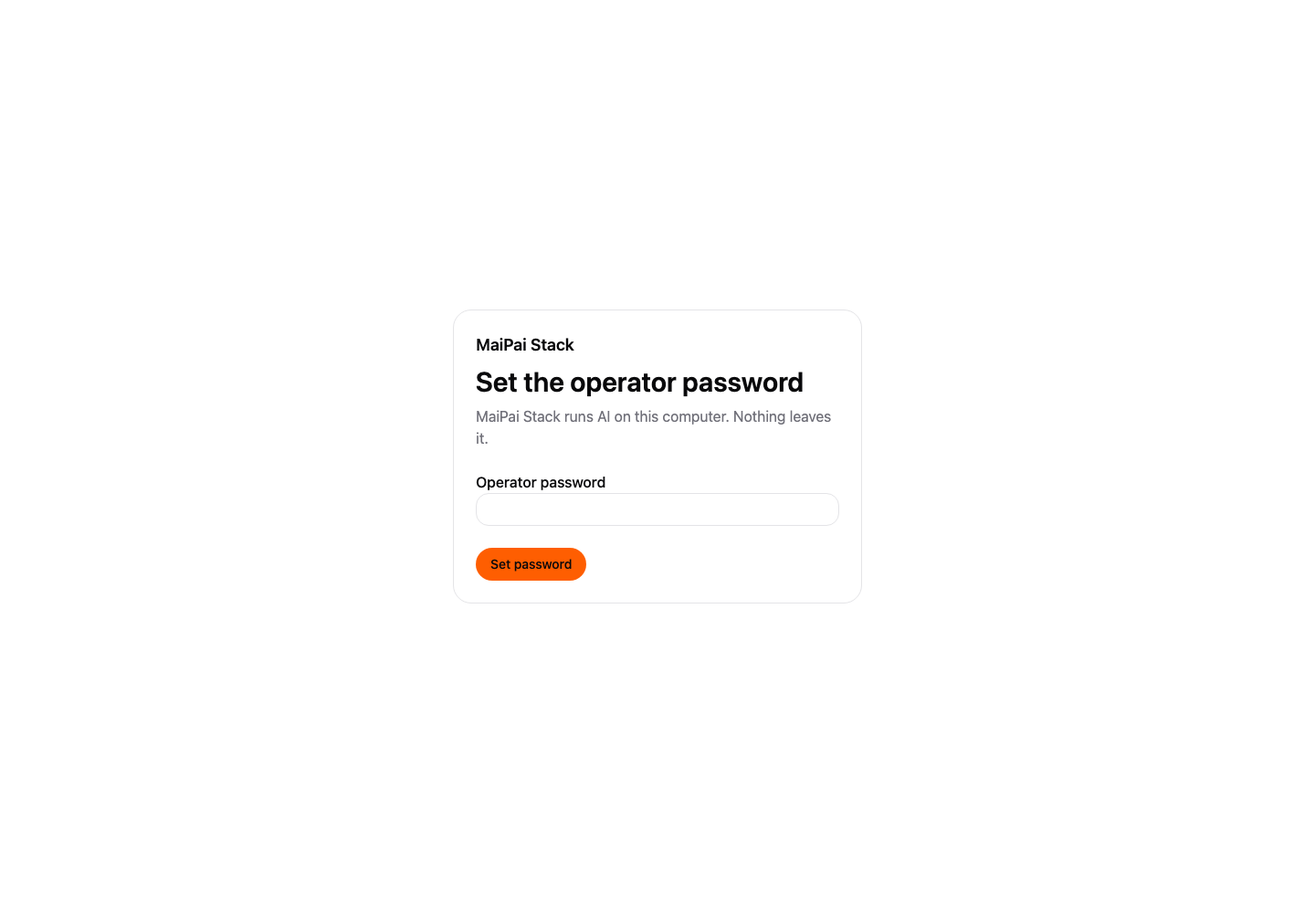
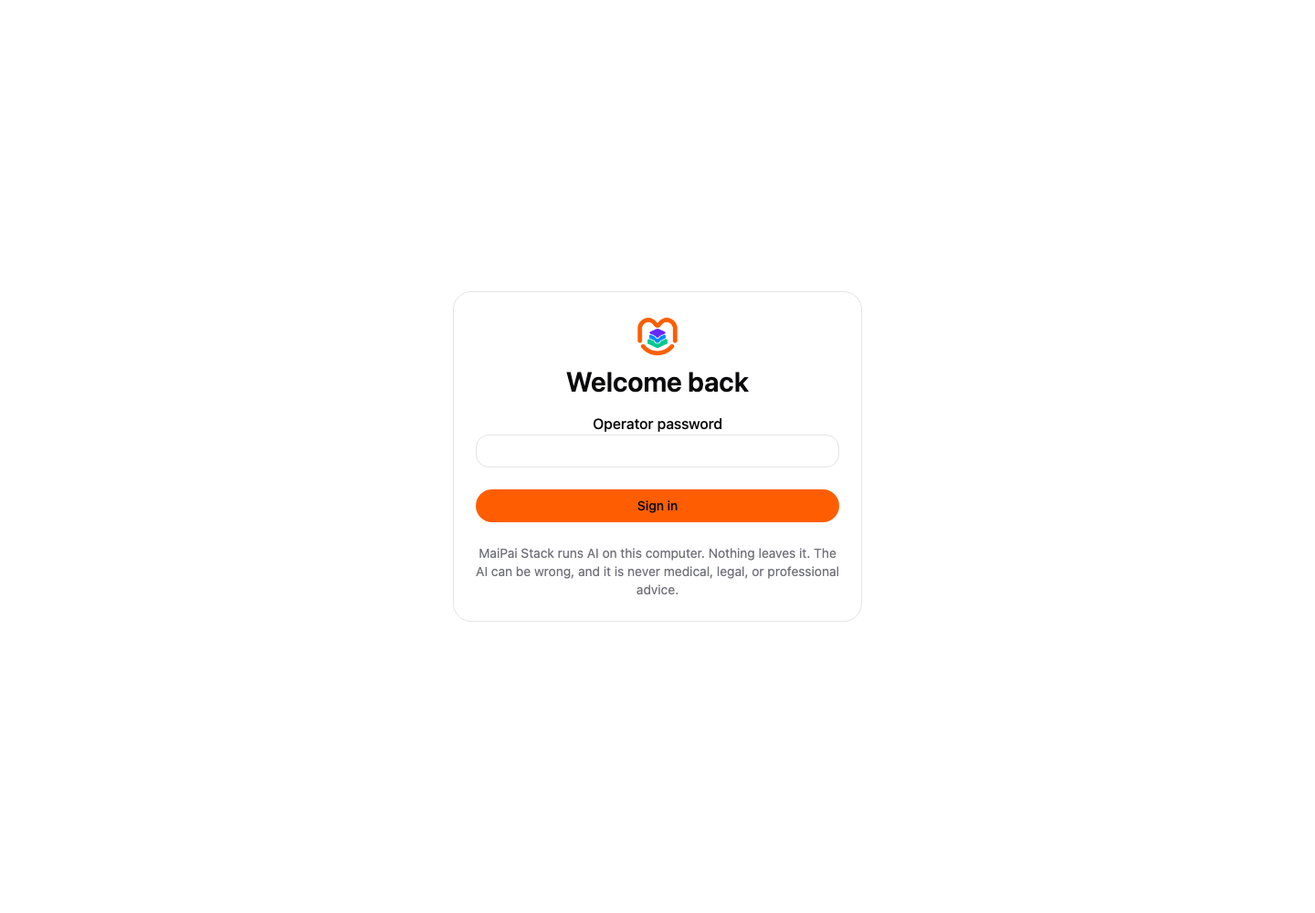
Console: the Setup and Login cards carry the brand; Clients has its route

Changed region(s): [[0.3438, 0.527, 0.6562, 0.651], [0.3438, 0.341, 0.625, 0.496]]

diff --git a/frontend/src/pages/DashboardShell.tsx b/frontend/src/pages/DashboardShell.tsx
@@ -38,7 +38,7 @@ import { answerIntent, type IntentFacts } from "@/lib/intents";
 const Copy = getIcon("Copy"); const ExternalLink = getIcon("ExternalLink"); const Gauge = getIcon("Gauge"); const Search = getIcon("Search"); const Sparkles = getIcon("Sparkles"); const RefreshCw = getIcon("RefreshCw"); const UploadCloud = getIcon("UploadCloud"); const SlidersHorizontal = getIcon("SlidersHorizontal");
 
 const sections = ["Overview", "Engines", "Models", "Library", "Help", "Clients", "Tester", "Monitoring", "Settings", "Logs", "Alerts"];
-const sectionPaths: Record<string, string> = { Overview: "/", Engines: "/engines", Models: "/models", Library: "/library", Help: "/help", Clients: "/access", Tester: "/try", Monitoring: "/monitoring", Settings: "/settings", Logs: "/logs", Alerts: "/alerts" };
+const sectionPaths: Record<string, string> = { Overview: "/", Engines: "/engines", Models: "/models", Library: "/library", Help: "/help", Clients: "/clients", Tester: "/try", Monitoring: "/monitoring", Settings: "/settings", Logs: "/logs", Alerts: "/alerts" };
 
 export type SectionFrameComponent = ({ title, description, children }: { title: string; description: string; children: ReactNode }) => ReactNode;
 
@@ -61,7 +61,7 @@ function PhoneDetail({ kind, endpoint, id }: { kind: Extract<ThingKind, "model" 
 function PhoneShell({ children, locationPath, onNavigate, health, helperFacts }: { children: ReactNode; locationPath: string; onNavigate: (path: string) => void; health: string; helperFacts: IntentFacts }) {
   const action: "Add" | "Search" = ["/models", "/engines"].includes(locationPath) ? "Add" : "Search";
   const title = locationPath.startsWith("/models") ? "Models" : locationPath.startsWith("/engines") ? "Engines" : locationPath.startsWith("/try") ? "Ask" : locationPath.startsWith("/alerts") ? "Alerts" : locationPath.startsWith("/settings") ? "Settings" : locationPath === "/" ? "Overview" : "Things";
-  return <div data-phone-shell className="min-h-svh bg-background pb-16"><PhoneHeader computerName="This computer" health={health} action={action} onAction={() => undefined} /><div className="hidden" aria-hidden="true"><button type="button" aria-label="Ask" /><button type="button" data-notifications-trigger /><button type="button" data-profile-trigger /></div><main className="mx-auto w-full max-w-xl"><h1 className="px-4 pt-4 text-2xl font-semibold">{title}</h1>{["/models", "/engines"].includes(locationPath) && <div className="mx-4 mt-3 grid grid-cols-2 rounded-lg border p-1"><button type="button" className={`min-h-11 rounded-md text-sm ${locationPath === "/models" ? "bg-muted font-medium" : ""}`} onClick={() => onNavigate("/models")}>Models</button><button type="button" className={`min-h-11 rounded-md text-sm ${locationPath === "/engines" ? "bg-muted font-medium" : ""}`} onClick={() => onNavigate("/engines")}>Engines</button></div>}{locationPath.startsWith("/settings") && <nav aria-label="Settings navigation" className="mx-4 mt-3 divide-y rounded-xl border"><a className="block min-h-11 px-4 py-3" href="/access">Clients</a><a className="block min-h-11 px-4 py-3" href="/monitoring">Monitoring</a><a className="block min-h-11 px-4 py-3" href="/logs">Logs</a></nav>}<div className="px-4 pb-4">{children}{locationPath.startsWith("/try") && <HelperPanel question="How is chat doing?" facts={helperFacts} onClose={() => onNavigate("/")} />}</div></main><TabBar activePath={locationPath} onNavigate={onNavigate} /></div>;
+  return <div data-phone-shell className="min-h-svh bg-background pb-16"><PhoneHeader computerName="This computer" health={health} action={action} onAction={() => undefined} /><div className="hidden" aria-hidden="true"><button type="button" aria-label="Ask" /><button type="button" data-notifications-trigger /><button type="button" data-profile-trigger /></div><main className="mx-auto w-full max-w-xl"><h1 className="px-4 pt-4 text-2xl font-semibold">{title}</h1>{["/models", "/engines"].includes(locationPath) && <div className="mx-4 mt-3 grid grid-cols-2 rounded-lg border p-1"><button type="button" className={`min-h-11 rounded-md text-sm ${locationPath === "/models" ? "bg-muted font-medium" : ""}`} onClick={() => onNavigate("/models")}>Models</button><button type="button" className={`min-h-11 rounded-md text-sm ${locationPath === "/engines" ? "bg-muted font-medium" : ""}`} onClick={() => onNavigate("/engines")}>Engines</button></div>}{locationPath.startsWith("/settings") && <nav aria-label="Settings navigation" className="mx-4 mt-3 divide-y rounded-xl border"><a className="block min-h-11 px-4 py-3" href="/clients">Clients</a><a className="block min-h-11 px-4 py-3" href="/monitoring">Monitoring</a><a className="block min-h-11 px-4 py-3" href="/logs">Logs</a></nav>}<div className="px-4 pb-4">{children}{locationPath.startsWith("/try") && <HelperPanel question="How is chat doing?" facts={helperFacts} onClose={() => onNavigate("/")} />}</div></main><TabBar activePath={locationPath} onNavigate={onNavigate} /></div>;
 }
 
 function PhoneModelRoute() { const { id = "" } = useParams(); return <PhoneDetail kind="model" endpoint="/stack/v1/models" id={id} />; }
@@ -141,7 +141,7 @@ export function DashboardShell() {
     return () => remove();
   }, [currentRunState, navigate, refetchRunState]);
   useEffect(() => { if (location.pathname !== "/abilities") sessionStorage.setItem("maipai-stack:last-route", location.pathname); }, [location.pathname]);
-  const routes = <Routes><Route path="/" element={<BoardPageProxy />} /><Route path="/abilities" element={<AbilitiesProxy />} /><Route path="/models/:id" element={<PhoneModelRoute />} /><Route path="/engines/:id" element={<PhoneEngineRoute />} /><Route path="/models" element={<ModelsPage Frame={SectionFrame} />} /><Route path="/engines" element={<EnginesPage Frame={SectionFrame} />} /><Route path="/monitoring" element={<MonitoringPage />} /><Route path="/library" element={<LibraryPage Frame={SectionFrame} />} /><Route path="/help/:page?" element={<HelpPage Frame={SectionFrame} />} /><Route path="/alerts" element={<AlertsPage Frame={SectionFrame} />} /><Route path="/logs" element={<LogsPage />} /><Route path="/access" element={<AccessPage Frame={SectionFrame} />} /><Route path="/try" element={<TryItPage />} /><Route path="/updates" element={<Navigate to="/settings/updates" replace />} /><Route path="/backups" element={<Navigate to="/settings/backups" replace />} /><Route path="/settings/*" element={<SettingsPage Frame={SectionFrame} />} /><Route path="*" element={<BoardPageProxy />} /></Routes>;
+  const routes = <Routes><Route path="/" element={<BoardPageProxy />} /><Route path="/abilities" element={<AbilitiesProxy />} /><Route path="/models/:id" element={<PhoneModelRoute />} /><Route path="/engines/:id" element={<PhoneEngineRoute />} /><Route path="/models" element={<ModelsPage Frame={SectionFrame} />} /><Route path="/engines" element={<EnginesPage Frame={SectionFrame} />} /><Route path="/monitoring" element={<MonitoringPage />} /><Route path="/library" element={<LibraryPage Frame={SectionFrame} />} /><Route path="/help/:page?" element={<HelpPage Frame={SectionFrame} />} /><Route path="/alerts" element={<AlertsPage Frame={SectionFrame} />} /><Route path="/logs" element={<LogsPage />} /><Route path="/clients" element={<AccessPage Frame={SectionFrame} />} /><Route path="/access" element={<Navigate to="/clients" replace />} /><Route path="/try" element={<TryItPage />} /><Route path="/updates" element={<Navigate to="/settings/updates" replace />} /><Route path="/backups" element={<Navigate to="/settings/backups" replace />} /><Route path="/settings/*" element={<SettingsPage Frame={SectionFrame} />} /><Route path="*" element={<BoardPageProxy />} /></Routes>;
   if (phone) return <PhoneModeContext.Provider value={true}><PhoneShell locationPath={location.pathname} onNavigate={navigate} health={health.data?.health?.[0]?.text ?? "This computer is healthy."} helperFacts={helperFacts}>{routes}</PhoneShell></PhoneModeContext.Provider>;
   return <SidebarProvider><AppSidebar repairs={repairRows} roles={roleRows} health={health.data?.health ?? []} engineCount={engineCount} updateCount={updateCount} alertSeverity={alertSeverity} engineTooltip={engineTooltip} updateTooltip={updateTooltip} alertTooltip={alertTooltip} hardware={hardware.data?.hardware} budget={budget.data} runState={runState.data?.state} /><SidebarInset className="h-svh overflow-hidden bg-[var(--surface-page)]"><SiteHeader title={title} onSearch={() => setPaletteOpen(true)} runState={runState.data?.state ?? "running"} onRunStateChange={() => void runState.refetch()} /><div className="flex-1 overflow-y-auto">{routes}</div></SidebarInset><CommandPalette open={paletteOpen} onOpenChange={setPaletteOpen} /></SidebarProvider>;
 }

diff --git a/scripts/screenshot.ts b/scripts/screenshot.ts
@@ -11,10 +11,10 @@ const showroom = process.argv.includes("--showroom");
 const signedInPages = new WeakSet<import("playwright").Page>();
 async function freePort(): Promise<number> { return new Promise((resolve, reject) => { const server = createServer(); server.once("error", reject); server.listen(0, "127.0.0.1", () => { const address = server.address(); const port = typeof address === "object" && address ? address.port : 0; server.close((error) => error ? reject(error) : resolve(port)); }); }); }
 async function waitForHealth(url: string): Promise<void> { const deadline = Date.now() + 15_000; while (Date.now() < deadline) { try { if ((await fetch(url + "/healthz")).ok) return; } catch { /* starting */ } await new Promise((resolve) => setTimeout(resolve, 100)); } throw new Error("The Stack did not become healthy."); }
-async function ensureSignedIn(page: import("playwright").Page, url: string): Promise<void> { if (signedInPages.has(page)) return; await page.goto(url, { waitUntil: "networkidle" }); if (await page.getByRole("button", { name: "Set password" }).count()) { await page.screenshot({ path: join(SCREEN_DIR, "setup-desktop.png"), fullPage: true }); await page.locator("#login-password").fill("showroom password"); await page.getByRole("button", { name: "Set password" }).click(); await page.locator('[data-sidebar="sidebar"]').waitFor(); await page.evaluate(async () => { await fetch("/stack/v1/operator/logout", { method: "POST" }); }); await page.goto(url, { waitUntil: "networkidle" }); await page.getByRole("heading", { name: "Welcome back" }).waitFor(); await page.screenshot({ path: join(SCREEN_DIR, "login-desktop.png"), fullPage: true }); } await page.locator("#login-password").fill("showroom password"); await page.getByRole("button", { name: "Sign in" }).click(); await page.locator("main").first().waitFor(); signedInPages.add(page); }
+async function ensureSignedIn(page: import("playwright").Page, url: string): Promise<void> { if (signedInPages.has(page)) return; await page.goto(url, { waitUntil: "networkidle" }); if (await page.getByRole("button", { name: "Set password" }).count()) { await page.screenshot({ path: join(SCREEN_DIR, "setup-desktop.png"), fullPage: true }); await page.locator("#login-password").fill("showroom password"); await page.getByRole("button", { name: "Set password" }).click(); await page.locator('[data-sidebar="sidebar"]').waitFor(); await page.evaluate(async () => { await fetch("/stack/v1/operator/logout", { method: "POST" }); }); await page.goto(url, { waitUntil: "networkidle" }); await page.locator("#login-password").waitFor(); await page.screenshot({ path: join(SCREEN_DIR, "login-desktop.png"), fullPage: true }); } await page.locator("#login-password").fill("showroom password"); await page.getByRole("button", { name: "Sign in" }).click(); await page.locator("main").first().waitFor(); signedInPages.add(page); }
 async function captureTry(page: import("playwright").Page, url: string, path: string): Promise<void> { await ensureSignedIn(page, url); await page.goto(url, { waitUntil: "networkidle" }); await page.getByPlaceholder("Ask your local AI…").waitFor(); await page.getByRole("tab", { name: "Chat" }).waitFor(); await page.getByRole("textbox", { name: "Message" }).fill("Say hello in one sentence"); await page.getByRole("button", { name: "Send" }).click(); await page.getByText("Scripted Stack").waitFor(); await page.screenshot({ path, fullPage: true }); }
 async function capturePhoneFirstViews(page: import("playwright").Page, url: string): Promise<void> { await page.route("**/stack/v1/operator", async (request) => request.fulfill({ status: 200, contentType: "application/json", body: JSON.stringify({ state: "setupRequired", required: true, loopback: true }) })); await page.goto(`${url}/login`, { waitUntil: "networkidle" }); await page.screenshot({ path: join(SCREEN_DIR, "setup-phone.png"), fullPage: true }); await page.unroute("**/stack/v1/operator"); await page.route("**/stack/v1/operator", async (request) => request.fulfill({ status: 200, contentType: "application/json", body: JSON.stringify({ state: "signedOut", required: true, loopback: false }) })); await page.goto(`${url}/login`, { waitUntil: "networkidle" }); await page.screenshot({ path: join(SCREEN_DIR, "login-phone.png"), fullPage: true }); await page.unroute("**/stack/v1/operator"); await page.goto(`${url}/abilities`, { waitUntil: "networkidle" }); await page.locator("main").first().waitFor(); await page.screenshot({ path: join(SCREEN_DIR, "board-phone.png"), fullPage: true }); await capturePhoneSecondPass(page, url); }
-async function captureShowroom(page: import("playwright").Page, url: string, route: string, heading: string, path: string): Promise<void> { await ensureSignedIn(page, url); await page.goto(`${url}${route}`, { waitUntil: "networkidle" }); await page.locator("main").first().waitFor(); await page.waitForTimeout(400); if (route === "/" && path.endsWith("overview-console-phone.png")) await capturePhoneFirstViews(page, url); if (route === "/" && path.endsWith("overview-console-light.png")) { await page.goto(`${url}/help`, { waitUntil: "networkidle" }); await page.locator("main").first().waitFor(); await page.screenshot({ path: join(SCREEN_DIR, "help.png"), fullPage: true }); } await page.goto(`${url}${route}`, { waitUntil: "networkidle" }); await page.locator("main").first().waitFor(); await page.screenshot({ path, fullPage: true }); if (route === "/" && path.endsWith("overview-console-light.png")) await page.screenshot({ path: join(SCREEN_DIR, "showroom-overview.png"), fullPage: true }); }
+async function captureShowroom(page: import("playwright").Page, url: string, route: string, heading: string, path: string): Promise<void> { const destination = route === "/access" ? "/clients" : route; await ensureSignedIn(page, url); await page.goto(`${url}${destination}`, { waitUntil: "networkidle" }); await page.locator("main").first().waitFor(); await page.waitForTimeout(400); if (destination === "/" && path.endsWith("overview-console-phone.png")) await capturePhoneFirstViews(page, url); if (destination === "/" && path.endsWith("overview-console-light.png")) { await page.goto(`${url}/help`, { waitUntil: "networkidle" }); await page.locator("main").first().waitFor(); await page.screenshot({ path: join(SCREEN_DIR, "help.png"), fullPage: true }); } await page.goto(`${url}${destination}`, { waitUntil: "networkidle" }); await page.locator("main").first().waitFor(); await page.screenshot({ path, fullPage: true }); if (destination === "/" && path.endsWith("overview-console-light.png")) await page.screenshot({ path: join(SCREEN_DIR, "showroom-overview.png"), fullPage: true }); }
 async function captureModelsGroups(page: import("playwright").Page, url: string, path: string): Promise<void> { await page.goto(`${url}/models`, { waitUntil: "networkidle" }); await page.locator("main").first().waitFor(); while (await page.getByRole("button", { name: /^Expand/ }).count()) await page.getByRole("button", { name: /^Expand/ }).first().click(); await page.waitForTimeout(400); await page.screenshot({ path, fullPage: true }); }
 async function capturePhoneSecondPass(page: import("playwright").Page, url: string): Promise<void> { await page.goto(`${url}/models`, { waitUntil: "networkidle" }); await page.locator("[data-phone-shell]").waitFor(); await page.waitForTimeout(400); await page.screenshot({ path: join(SCREEN_DIR, "models-phone.png"), fullPage: true }); await page.goto(`${url}/models/qwen3-27b-instruct`, { waitUntil: "networkidle" }); await page.waitForTimeout(400); await page.screenshot({ path: join(SCREEN_DIR, "model-detail-phone.png"), fullPage: true }); await page.goto(`${url}/settings`, { waitUntil: "networkidle" }); await page.waitForTimeout(400); await page.screenshot({ path: join(SCREEN_DIR, "settings-phone.png"), fullPage: true }); await page.goto(`${url}/try`, { waitUntil: "networkidle" }); await page.waitForTimeout(400); await page.screenshot({ path: join(SCREEN_DIR, "tester-phone.png"), fullPage: true }); }
 async function captureLibrary(page: import("playwright").Page, url: string): Promise<void> { await page.goto(`${url}/library`, { waitUntil: "networkidle" }); await page.locator("main").first().waitFor(); await page.waitForTimeout(400); await page.screenshot({ path: join(SCREEN_DIR, "library.png"), fullPage: true }); await page.locator("tbody tr").first().click(); await page.getByText("Local copy").waitFor(); await page.waitForTimeout(400); await page.screenshot({ path: join(SCREEN_DIR, "library-panel.png"), fullPage: true }); }

diff --git a/frontend/src/pages/LoginPage.tsx b/frontend/src/pages/LoginPage.tsx
@@ -2,7 +2,7 @@ import { FormEvent, useState } from "react";
 import { useNavigate } from "react-router-dom";
 import { api, type OperatorState } from "@/lib/api";
 import { Button } from "@/kit/ui/button";
-import { Card, CardContent, CardDescription, CardHeader, CardTitle } from "@/kit/ui/card";
+import { Card, CardContent, CardHeader, CardTitle } from "@/kit/ui/card";
 import { Input } from "@/kit/ui/input";
 
 export function LoginPage({ state, onSignedIn }: { state: OperatorState; onSignedIn?: (state: OperatorState) => void }) {
@@ -28,21 +28,24 @@ export function LoginPage({ state, onSignedIn }: { state: OperatorState; onSigne
 
   return (
     <main className="flex min-h-screen items-center bg-background px-4 py-8 text-foreground sm:px-8">
-      <Card className="mx-auto w-full max-w-md">
-        <CardHeader>
-          <p className="text-lg font-semibold">MaiPai Stack</p>
+      <Card className="mx-auto w-full max-w-md gap-4">
+        <CardHeader className="justify-items-center px-6 text-center">
+          <picture>
+            <source media="(prefers-color-scheme: dark)" srcSet="/brand/maipai-stack-icon-dark.png" />
+            <img className="size-12" src="/brand/maipai-stack-icon-light.png" alt="MaiPai Stack" />
+          </picture>
           <CardTitle className="text-3xl">{state.state === "setupRequired" ? "Set the operator password" : "Welcome back"}</CardTitle>
-          <CardDescription className="text-base">{state.state === "setupRequired" ? "MaiPai Stack runs AI on this computer. Nothing leaves it." : "Sign in to manage this Stack from another device."}</CardDescription>
         </CardHeader>
-        <CardContent>
+        <CardContent className="space-y-6 text-center">
           {state.state === "setupRequired" && !state.loopback ? <p className="text-base text-muted-foreground">Set the operator password on the computer that runs the Stack first.</p> : <form className="space-y-6" onSubmit={submit}>
             <label className="block space-y-2 text-base font-medium" htmlFor="login-password">
               Operator password
               <Input id="login-password" type="password" autoComplete={state.state === "setupRequired" ? "new-password" : "current-password"} value={password} onChange={(event) => setPassword(event.target.value)} required />
             </label>
             {error && <p className="text-base text-destructive" role="alert">{error}</p>}
-            <Button type="submit" disabled={saving}>{saving ? (state.state === "setupRequired" ? "Setting password..." : "Signing in...") : (state.state === "setupRequired" ? "Set password" : "Sign in")}</Button>
+            <Button className="w-full" type="submit" disabled={saving}>{saving ? (state.state === "setupRequired" ? "Setting password..." : "Signing in...") : (state.state === "setupRequired" ? "Set password" : "Sign in")}</Button>
           </form>}
+          <p className="text-sm text-muted-foreground">MaiPai Stack runs AI on this computer. Nothing leaves it. The AI can be wrong, and it is never medical, legal, or professional advice.</p>
         </CardContent>
       </Card>
     </main>

diff --git a/frontend/src/kit/blocks/dashboard/components/app-sidebar.tsx b/frontend/src/kit/blocks/dashboard/components/app-sidebar.tsx
@@ -21,7 +21,7 @@ export function AppSidebar({ repairs, roles, health = [], engineCount = 0, updat
     const observer = new ResizeObserver(() => update()); observer.observe(target); return () => observer.disconnect();
   }, []);
   const { tone, sentence } = healthSummary(repairs, roles, health);
-  const common = ["Overview", "Engines", "Models", "Library", "Clients", "Tester", "Monitoring"].map((title) => ({ title, url: { Overview: "/", Engines: "/engines", Models: "/models", Library: "/library", Clients: "/access", Tester: "/try", Monitoring: "/monitoring" }[title]!, icon: getIcon(iconMap[title as keyof typeof iconMap]), isActive: location.pathname === ({ Overview: "/", Engines: "/engines", Models: "/models", Library: "/library", Clients: "/access", Tester: "/try", Monitoring: "/monitoring" }[title]!), badge: title === "Engines" ? engineCount : 0, tooltip: title === "Engines" ? engineTooltip : undefined }));
+  const common = ["Overview", "Engines", "Models", "Library", "Clients", "Tester", "Monitoring"].map((title) => ({ title, url: { Overview: "/", Engines: "/engines", Models: "/models", Library: "/library", Clients: "/clients", Tester: "/try", Monitoring: "/monitoring" }[title]!, icon: getIcon(iconMap[title as keyof typeof iconMap]), isActive: location.pathname === ({ Overview: "/", Engines: "/engines", Models: "/models", Library: "/library", Clients: "/clients", Tester: "/try", Monitoring: "/monitoring" }[title]!), badge: title === "Engines" ? engineCount : 0, tooltip: title === "Engines" ? engineTooltip : undefined }));
   const admin = ["Settings", "Logs", "Alerts"].map((title) => ({ title, url: { Settings: "/settings", Logs: "/logs", Alerts: "/alerts" }[title]!, icon: getIcon(iconMap[title as keyof typeof iconMap]), isActive: location.pathname.startsWith({ Settings: "/settings", Logs: "/logs", Alerts: "/alerts" }[title]!), badge: title === "Settings" ? updateCount : 0, dot: title === "Alerts" ? alertSeverity : null, tooltip: title === "Settings" ? updateTooltip : title === "Alerts" ? alertTooltip : undefined }));
   const groups: NavGroup[] = [{ label: "Manage", items: common }, { label: "Administer", items: admin }];
   return <Sidebar collapsible="icon" className="bg-[var(--surface-sidebar)] p-3 pb-4" {...props}>

diff --git a/frontend/src/board.test.tsx b/frontend/src/board.test.tsx
@@ -44,18 +44,20 @@ test("the gate shows setup alone and makes one state request before a password e
   expect(calls).toEqual(["/stack/v1/operator"]);
 });
 
-test("an off-laptop required session renders only the login page", async () => {
+test("an off-laptop required session renders only the branded login page", async () => {
   globalThis.fetch = mock((input: RequestInfo | URL) => String(input).endsWith("/operator") ? Promise.resolve(Response.json({ state: "signedOut", required: true })) : Promise.resolve(responseFor(input))) as unknown as typeof fetch;
   render(<MemoryRouter initialEntries={["/models"]}><App /></MemoryRouter>);
-  await waitFor(() => expect(document.body.textContent).toContain("Sign in to manage this Stack from another device."));
+  await waitFor(() => expect(document.body.textContent).toContain("MaiPai Stack runs AI on this computer. Nothing leaves it. The AI can be wrong, and it is never medical, legal, or professional advice."));
+  expect(document.querySelector('img[alt="MaiPai Stack"]')?.getAttribute("src")).toBe("/brand/maipai-stack-icon-light.png");
+  expect(document.querySelector('source[media="(prefers-color-scheme: dark)"]')?.getAttribute("srcset")).toBe("/brand/maipai-stack-icon-dark.png");
   expect(document.querySelector('[data-slot="sidebar"]')).toBeNull();
   expect(document.querySelector('[data-testid="property-panel"]')).toBeNull();
   expect(document.querySelector("header")).toBeNull();
 });
 
-test("the login copy distinguishes an existing operator, local setup, and phone setup", () => {
+test("the login card keeps its safety note for sign-in, local setup, and phone setup", () => {
   render(<MemoryRouter><LoginPage state={{ state: "signedOut", required: true }} /></MemoryRouter>);
-  expect(document.body.textContent).toContain("Sign in to manage this Stack from another device.");
+  expect(document.body.textContent).toContain("MaiPai Stack runs AI on this computer. Nothing leaves it. The AI can be wrong, and it is never medical, legal, or professional advice.");
   cleanup();
   render(<MemoryRouter><LoginPage state={{ state: "setupRequired", required: true, loopback: true }} /></MemoryRouter>);
   expect(document.body.textContent).toContain("Set the operator password");

diff --git a/frontend/src/dashboardShell.test.tsx b/frontend/src/dashboardShell.test.tsx
@@ -1,6 +1,6 @@
 import { afterEach, expect, mock, test } from "bun:test";
 import { cleanup, fireEvent, render, waitFor } from "@testing-library/react";
-import { MemoryRouter } from "react-router-dom";
+import { MemoryRouter, useLocation } from "react-router-dom";
 import { DashboardShell } from "@/pages/DashboardShell";
 
 const originalEventSource = globalThis.EventSource;
@@ -10,6 +10,8 @@ afterEach(() => { cleanup(); globalThis.EventSource = originalEventSource; });
 const hardwareResponse = { hardware: { platform: "darwin", arch: "arm64", totalRamGb: 32, cpuCount: 8, isAppleSilicon: true, unifiedMemoryGb: 32, cudaDevices: [], freeDiskBytes: 500_000_000_000, totalDiskBytes: 1_000_000_000_000, osVersion: "15.0" }, proposed: null, tiers: [] };
 const budgetResponse = { totalMemoryBytes: 24_000_000_000, capBytes: 16_000_000_000, freeMemoryBytes: 15_700_000_000, pressure: false, loaded: [], queue: [] };
 const storageResponse = { freeDiskBytes: 500_000_000_000, byCategory: { models: 120_000_000_000, engines: 40_000_000_000, logs: 1_000_000_000, backups: 5_000_000_000 } };
+
+function RoutePath() { return <output data-testid="route-path">{useLocation().pathname}</output>; }
 
 function stubStackFetch(responses: Record<string, unknown>): void {
   globalThis.EventSource = undefined as unknown as typeof EventSource;
@@ -35,6 +37,13 @@ test("the Stack shell lists every section in order", () => {
     previous = next;
   }
   expect(text).toContain("Settings");
+});
+
+test("/access redirects to the Clients route", async () => {
+  stubStackFetch({ ...boardExtras, "/stack/v1/repairs": { repairs: [] }, "/stack/v1/roles": { roles: [] }, "/stack/v1/operator": { state: "signedOut", required: false }, "/stack/v1/clients": { clients: [] } });
+  render(<MemoryRouter initialEntries={["/access"]}><DashboardShell /><RoutePath /></MemoryRouter>);
+  await waitFor(() => expect(document.querySelector('[data-testid="route-path"]')?.textContent).toBe("/clients"));
+  expect(document.querySelector('a[href="/clients"]')).toBeTruthy();
 });
 
 test("the root waits for its plan before choosing the overview instead of mounting the board", async () => {

diff --git a/frontend/src/kit/blocks/dashboard/components/profile-menu.tsx b/frontend/src/kit/blocks/dashboard/components/profile-menu.tsx
@@ -32,7 +32,7 @@ export function ProfileMenu({ onSignedIn, onSignedOut }: { onSignedIn?: () => vo
       <DropdownMenuItem onSelect={(event) => event.preventDefault()}><ThemeToggle always /><span>Theme</span></DropdownMenuItem>
       {!hasPassword && <DropdownMenuItem onSelect={() => setPasswordDialogOpen(true)}><Lock />Set a password</DropdownMenuItem>}
       {state === "signedIn" && <DropdownMenuItem onSelect={() => void signOut()}><LogOut />Sign out</DropdownMenuItem>}
-      <DropdownMenuItem asChild><Link to="/access"><KeyRound />Clients</Link></DropdownMenuItem>
+      <DropdownMenuItem asChild><Link to="/clients"><KeyRound />Clients</Link></DropdownMenuItem>
       <DropdownMenuLabel>Help</DropdownMenuLabel>
       <DropdownMenuItem asChild><a href="https://getmaipai.github.io/stack/" target="_blank" rel="noreferrer"><ExternalLink />Docs site</a></DropdownMenuItem>
       <DropdownMenuItem asChild><Link to="/help"><FileText />Help</Link></DropdownMenuItem>
